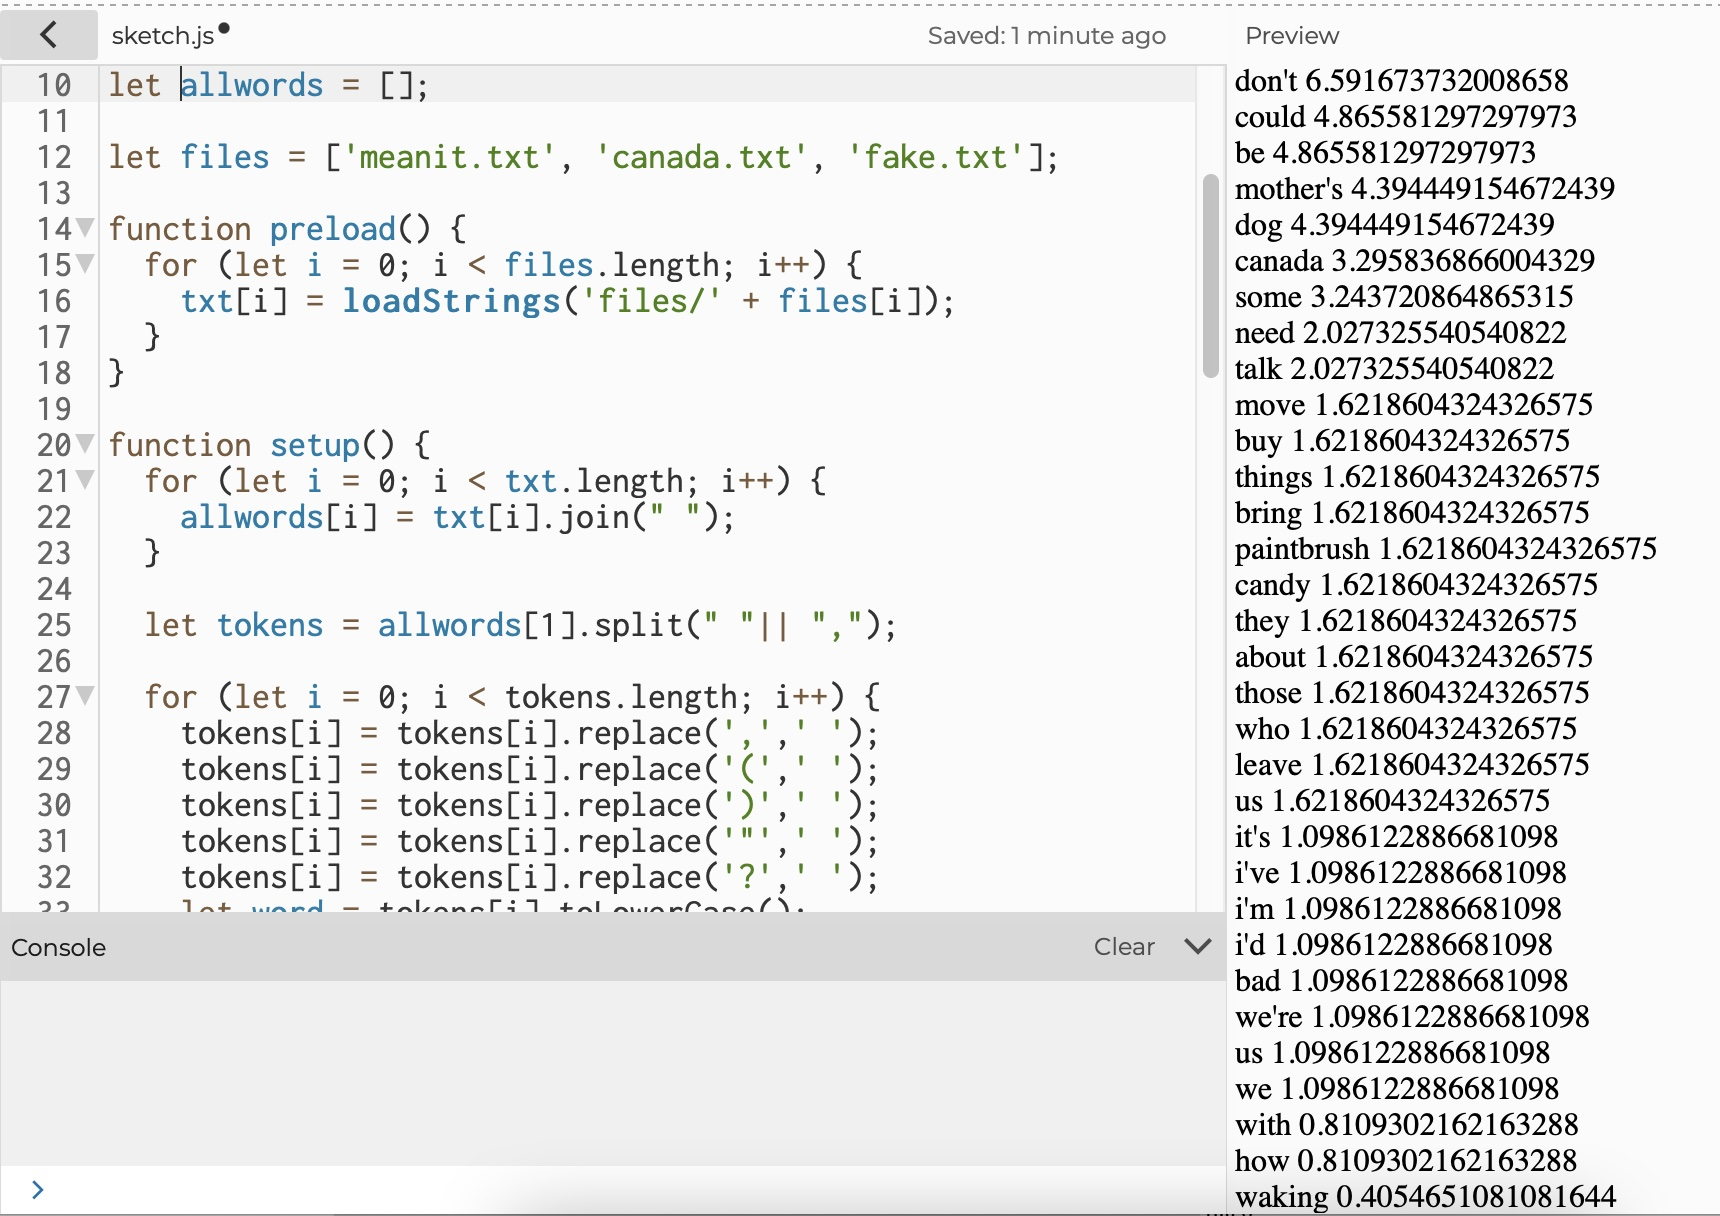
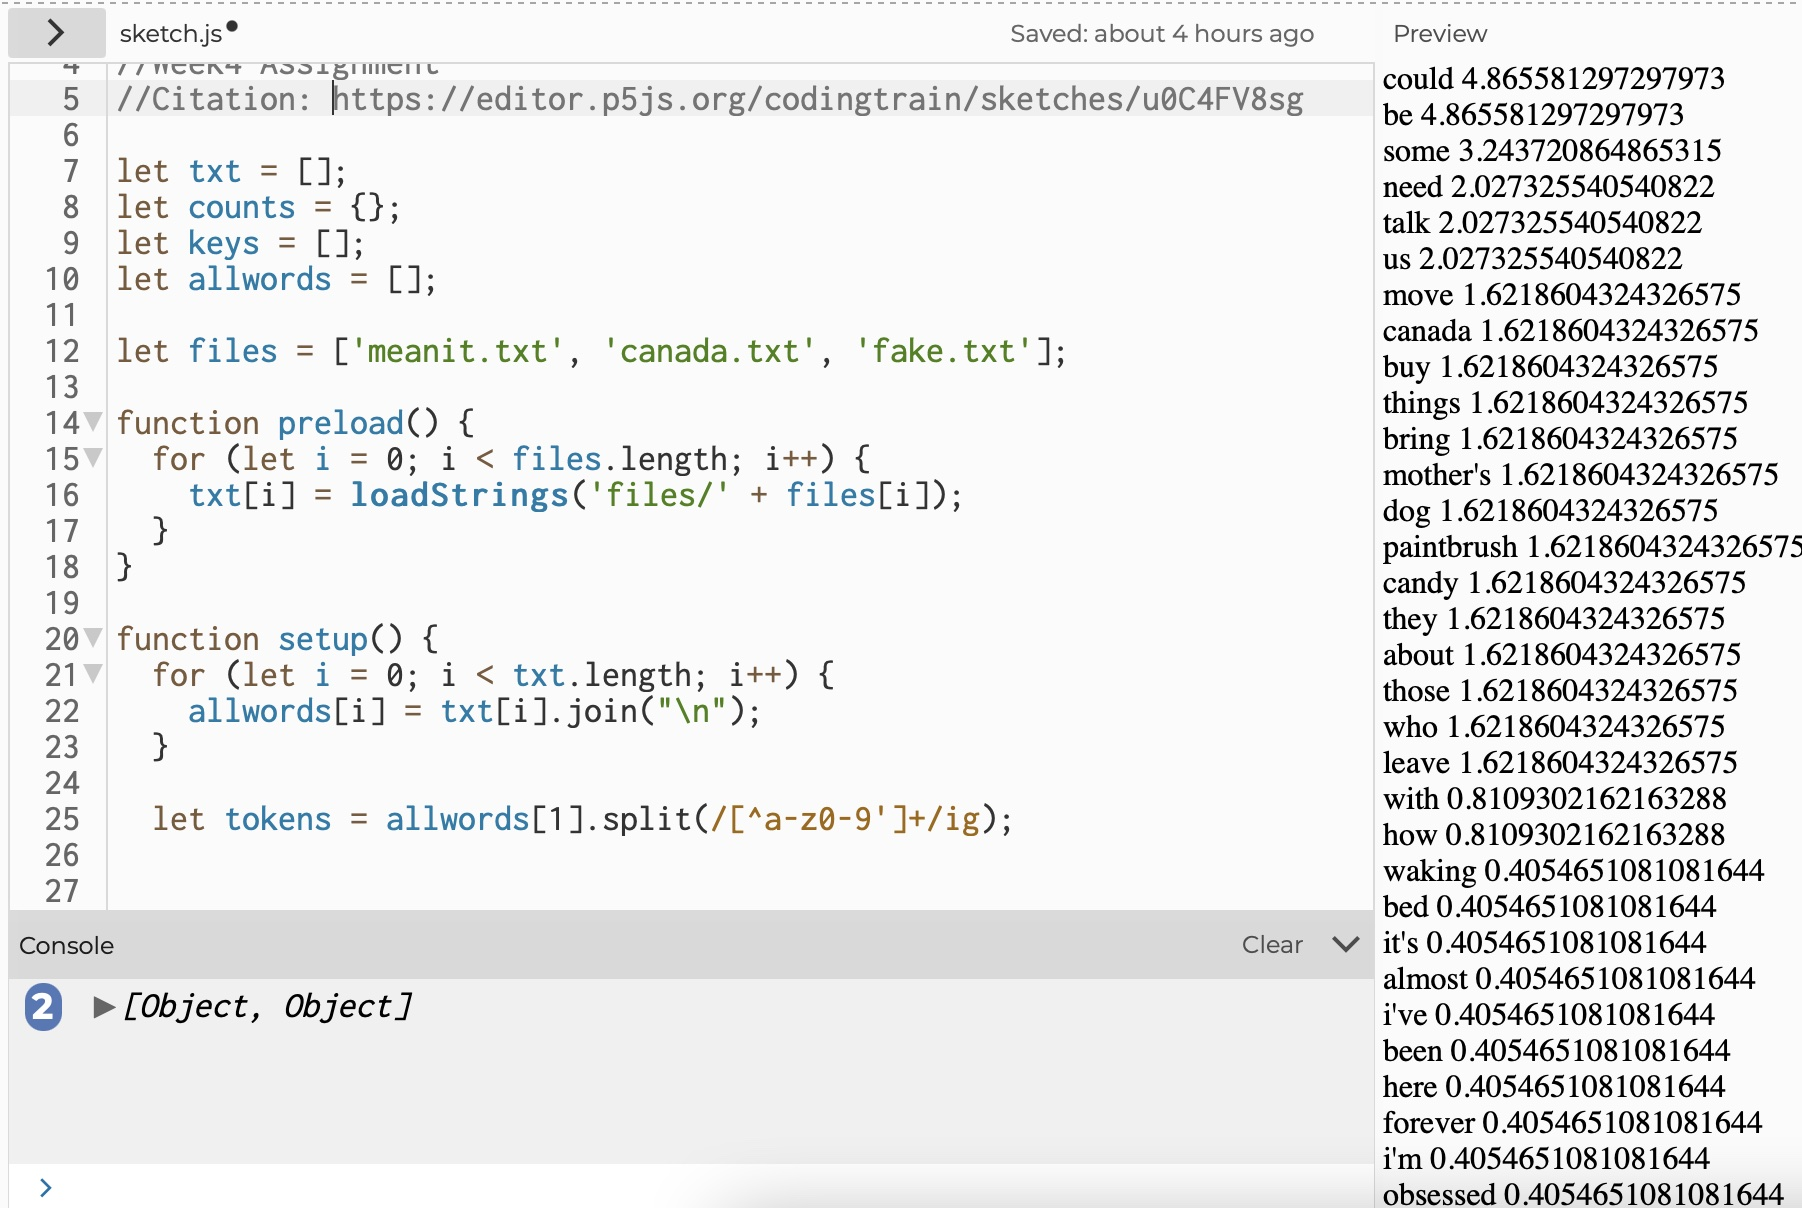
push

diff --git a/week4.html b/week4.html
@@ -42,7 +42,7 @@ apis
 
 		<div class ="project-description">
 
-		<p> Author: Soojin Lee  &nbsp;&nbsp;&nbsp;     Date: 3, Oct, 2021 </p> 
+		<p> Author: Soojin Lee  &nbsp;&nbsp;&nbsp;     Date: 5, Oct, 2021 </p> 
 
 		</div>  
 
@@ -123,7 +123,7 @@ apis
 		<img src="week4image/newlinecomment.jpg">
 
 		<div class="text">
-			Instead of joining every new line using <span style="color:blue">text.join("\n")</span> function, I joined the array of lines, by joining space, using <span style="color:blue">text.join(" ")</span> this function. 
+			Instead of joining every new line using <span style="color:blue">text.join("\n")</span> function, I joined the array of lines, by joining space, using <span style="color:blue">text.join(" ")</span>. 
 		</div>
 		<img src="week4image/fixednewline.jpg">
 
@@ -154,16 +154,16 @@ apis
 
 		<div class="text">
 
-			Following Profess Daniel Shiffman's suggestion, I fixed the apostrophe issue by writing a code this way: 
-			<br><span style="color:blue">   let tokens = allwords.split(/[^a-z0-9']+/ig);</span> 
+			Following Professor Daniel Shiffman's suggestion, I fixed the apostrophe issue by replacing <span style="color:blue">   allwords.split (/\W+/); </span>  <br>to 
+			<br><span style="color:blue"> allwords.split(/[^a-z0-9']+/ig);</span> 
 
 			<br><br>
 
-			This function allows tokens to split at anything that is not (a-z, 0-9, or apostrophe) and this is case insensitive. 
+			This function allows tokens to split at anything that is not (a-z, 0-9, or apostrophe). It is also case insensitive. 
 
 			<br><br>
 
-			Using this code, I was able to make make the code a lot more efficient. I could get rid of all the tokens replace functions. 
+			Using this code, I was able to make the code a lot more efficient. I could get rid of all the tokens replace functions. 
 		</div>
 		<h3>
 
@@ -215,7 +215,7 @@ apis
 
 				<br><br> 
 
-				For the text file, I used the lyrics of three songs; "Mean It", "Canada", and "Fake" by Lauv. <br><br>
+				For the exercise, I used the lyrics of three songs; "Mean It", "Canada", and "Fake" by Lauv as text files. <br><br>
 
 				View the project <a href=	https://editor.p5js.org/Soojin_lee/sketches/Nd-eGwwGw/> Here </a >
 			
@@ -223,8 +223,75 @@ apis
 			</div>
 
 
-			
+		<h3>
+			Mean It
+		</h3>
+				<img src="week4image/meanit.jpg">
+		<h3>
+			Canada
+		</h3>
+				<img src="week4image/canada.jpg">
 
+		<h3>
+			Fake 
+		</h3>
+				<img src="week4image/fake.jpg">
+
+
+
+		<h1>
+
+			| WEEK 4 Project: 
+
+		</h1>
+
+		<h2>
+			English Song Data Visualization In Korean
+		</h2>
+
+		<br>
+
+		
+		<div class="text">
+			For week 4 assignment, I designed data visualization that uses a language other than English. <br>View the project <a href=https://editor.p5js.org/Soojin_lee/sketches/RB79ehzjt /> Here </a >
+			<br><br>
+
+			For this project, elaborating on the word counting exercise, I made a short animation that visualizes the frequency of the words that appear in the song "MEAN IT" by Lauv in Korean. <br><br>
+
+			It visualizes words in MEAN IT that appear at least three times in the lyrics. <br><br>
+
+			<h3> (In nutshell, this is how the project is made) </h3>
+
+				<ol class="a">
+  			<li> It counts the number of words used in the text file "Mean It", and the frequency of each word </li>
+  			<li> Organize words in the order of highest count to lowest count </li>
+  			<li> Visualize the words that are used more than three times </li>
+
+  		</ol>
+
+  			<img src="week4image/video.gif">
+
+			In this data visualization, the size of the text matches with the number of word counts. The bigger the font size, the more frequent word appears in the text. The text color and the background rectangle color also changes according to the word count. It is organized in the order of highest word count to the lowest word count with its minimum word count of 3. Therefore, the word "me", which has the highest wordcount (43) appears on the top. However, the word "me" is written in Hanguel Alphabet. 
+			<img src="week4image/korean.jpg">
+
+			As I was working on this project, I wanted to add a fun twist by visualizing English words in Korean. Focusing on the sound of each alphabet, I added a function where English alpahbets are replaced with Korean alphabets that gives the similar sound. Since not every English letter can be directly replaced by Korean alphabet, and given that Korean is written in block system, where it is not always written linearly but in blocks, the result wasn't perfect. However, it generated an interesting visualization, and although grammatically imperfect, when assembled together, the korean words are read outloud as how it would be read out in English. <br><br>
+
+
+		</div>
+
+				
+				  <img src="week4image/video2.gif">
+
+
+		<h2>
+			What's NEXT?
+		</h2>
+	<div class="text">
+
+		As shown above, each word is visualized twice. Each row contains two words. This is because initially, I wanted to have English word and Korean word side-by-side. However, I couldn't figure out how to apply replace() function to one type of data and not to another. So I had to end the project here. I am still satisfied with the result because I find the data visualization of english text in korean alphabet is really interesting. In future, I want to develop my skills and show the English list of words and Korean list of words side-by-side. 
+
+
+	</div>
  	</div>
 
 
